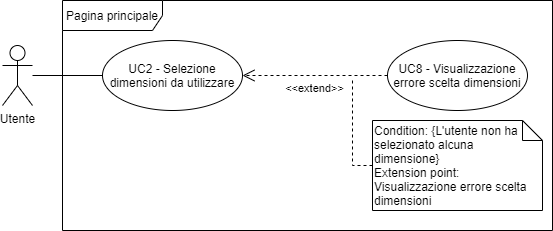
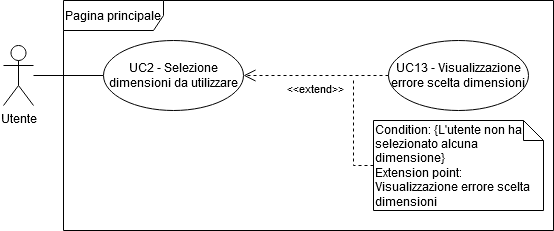
adeguamento numeri uc e grafici

diff --git a/DocEsterna/AnalisiDeiRequisiti/Section/RegistroModifiche.tex b/DocEsterna/AnalisiDeiRequisiti/Section/RegistroModifiche.tex
@@ -27,17 +27,17 @@
 0.1.7 & 26-12-2020 & \SP{} & Analista & Aggiunti requisiti\\
 0.1.6 & 26-12-2020 & \BM{} & Analista & Aggiunti requisiti\\
 0.1.5 & 25-12-2020 & \SG{} & Analista & Stesura dei requisiti \\
-0.1.4 & 24-12-2020 & \SP{} & Analista & Stesura UC8, UC9, UC10\\
-0.1.3 & 24-12-2020 & \SG{} & Analista & Stesura UC4 e sottocasi\\
-0.1.2 & 23-12-2020 & \SP{} & Analista & Stesura UC5 e UC6\\
+0.1.4 & 24-12-2020 & \SP{} & Analista & Stesura UC10, UC11, UC16\\
+0.1.3 & 24-12-2020 & \SG{} & Analista & Stesura UC6, UC7, UC8, UC9, UC15\\
+0.1.2 & 23-12-2020 & \SP{} & Analista & Stesura UC5 e sottocasi\\
 
-0.1.1 & 23-12-2020 & \BM{} & Analista & Stesura UC3 e sottocasi\\
+0.1.1 & 23-12-2020 & \BM{} & Analista & Stesura UC3, UC4, UC14\\
 
 0.1.0 & 22-12-2020 & \PA{} & Verificatore & Revisione complessiva del documento \\
 
-0.0.7 & 22-12-2020 & \SG{} & Analista & Stesura UC2\\
-0.0.6 & 21-12-2020 & \BM{} & Analista & Modifica UC1,\newline Stesura sottocasi\\
-0.0.5 & 18-12-2020 & \SP{} & Analista & Stesura UC1 e UC7\\
+0.0.7 & 22-12-2020 & \SG{} & Analista & Stesura UC2, UC13\\
+0.0.6 & 21-12-2020 & \BM{} & Analista & Modifica UC1,\newline Stesura sottocasi UC1.1, UC1.2\\
+0.0.5 & 18-12-2020 & \SP{} & Analista & Stesura UC1, UC12\\
 0.0.4 & 17-12-2020 & \SP{} & Analista & Stesura sezioni §3.1 e §3.2\\	
 0.0.3 & 16-12-2020 & \SP{} & Analista & Stesura sezione §2\\
 0.0.2 & 15-12-2020 & \SP{} & Analista & Stesura sezione §1\\

diff --git a/DocEsterna/AnalisiDeiRequisiti/Section/Subsection/UC2.tex b/DocEsterna/AnalisiDeiRequisiti/Section/Subsection/UC2.tex
@@ -7,20 +7,19 @@
 \begin{itemize}
 	\item \textbf{Attore primario}: Utente.
 	\item \textbf{Precondizioni}: L'utente ha caricato i dati nel sistema [UC1].
-	\item \textbf{Postcondizioni}: Le dimensioni scelte vengono memorizzate nel sistema.
+	\item \textbf{Postcondizioni}: Le dimensioni scelte vengono memorizzate nel sistema e i dati sono pronti per essere visualizzati.
 	\item \textbf{Scenario principale}:
 		\begin{enumerate}
 			\item All'utente viene presentata una schermata con tutte le dimensioni presenti nel dataset caricato;
 			\item Per ogni dimensione è presente una cella da selezionare nel caso la si voglia utilizzare;
 			\item L'utente seleziona le dimensioni che desidera analizzare;
-			\item L'utente preme sulla funzionalità "Conferma selezione".
 		\end{enumerate}
 	\item \textbf{Estensioni:}
 		\begin{enumerate}[(a)]
 			\item Nel caso in cui l'utente non abbia selezionato nessuna dimensione:
 			\begin{enumerate}[1.]
 				\item Le dimensioni non vengono memorizzate nel sistema;
-				\item Viene visualizzato un messaggio d'errore esplicativo [UCX].
+				\item Viene visualizzato un messaggio d'errore esplicativo [UC13].
 			\end{enumerate}
 		\end{enumerate}
 \end{itemize}

diff --git a/DocEsterna/AnalisiDeiRequisiti/Section/Subsection/UC11.tex b/DocEsterna/AnalisiDeiRequisiti/Section/Subsection/UC11.tex
@@ -1,7 +1,12 @@
 \subsubsection{UC11 - Ripristina sessione}
+\begin{figure}[h]
+\includegraphics[width=\linewidth]{section/Images/UC1.png}
+\centering
+\caption{UC11 - Ripristina sessione}
+\end{figure}
 \begin{itemize}
 	\item \textbf{Attore primario}: Utente.
-	\item \textbf{Precondizioni}: L'utente è in possesso di un file \glo{JSON} ottenuto dal salvataggio della sessione [UC7].
+	\item \textbf{Precondizioni}: L'utente è in possesso di un file \glo{JSON} ottenuto dal salvataggio della sessione [UC10].
 	\item \textbf{Postcondizioni}: Viene visualizzato un messaggio che avvisa l'utente del corretto ripristino della sessione. Viene ripristinata la sessione salvata nel file.
 	\item \textbf{Scenario principale}:
 		\begin{enumerate}
@@ -14,7 +19,7 @@
 		\item Nel caso in cui il file abbia un formato sbagliato o contiene dati non validi:
 		\begin{enumerate}[1.]
 			\item La sessione non viene ripristinata;
-			\item Viene visualizzato un errore esplicativo [UCX].
+			\item Viene visualizzato un errore esplicativo [UC16].
 		\end{enumerate}
 	\end{enumerate}
 \end{itemize}

diff --git a/DocEsterna/AnalisiDeiRequisiti/Section/Subsection/UC5.tex b/DocEsterna/AnalisiDeiRequisiti/Section/Subsection/UC5.tex
@@ -1,4 +1,9 @@
 \subsubsection{UC5 - Scelta della \glo{visualizzazione}}
+\begin{figure}[h]
+\includegraphics[width=\linewidth]{section/Images/UC5.png}
+\centering
+\caption{UC5 - Scelta della visualizzazione}
+\end{figure}
 \begin{itemize}
 	\item \textbf{Attore primario}: Utente.
 	\item \textbf{Precondizioni}: L'utente ha caricato dei dati nel sistema [UC1] e ha selezionato le dimensioni da utilizzare [UC2].
@@ -18,7 +23,7 @@
 		\item Nel caso in cui non è stata scelta alcuna dimensione:
 		\begin{enumerate}[1.]
 			\item Il grafico non viene visualizzato;
-			\item Viene visualizzato un errore esplicativo [UCX].
+			\item Viene visualizzato un errore esplicativo [UC14].
 		\end{enumerate}
 	\end{enumerate}
 \end{itemize}

diff --git a/DocEsterna/AnalisiDeiRequisiti/Section/Subsection/UC3.tex b/DocEsterna/AnalisiDeiRequisiti/Section/Subsection/UC3.tex
@@ -2,6 +2,6 @@
 \begin{itemize}
 	\item \textbf{Attore primario}: Utente.
 	\item \textbf{Precondizioni}: L'utente ha selezionato le dimensioni da utilizzare [UC2].
-	\item \textbf{Postcondizioni}: La scelta viene memorizzata nel sistema e viene resta disponibile una finestra per l'impostazione dei parametri per l'algoritmo di riduzione dimensionale selezionato[UC4].
+	\item \textbf{Postcondizioni}: La scelta viene memorizzata nel sistema e viene resa disponibile una sezione per la personalizzazione dei parametri dell'algoritmo di riduzione dimensionale selezionato[UC4].
 	\item \textbf{Scenario principale}: L'utente seleziona un algoritmo di riduzione dimensionale tra quelli resi disponibili dal sistema.
 \end{itemize}

diff --git a/DocEsterna/AnalisiDeiRequisiti/Section/Subsection/UC16.tex b/DocEsterna/AnalisiDeiRequisiti/Section/Subsection/UC16.tex
@@ -1,12 +1,10 @@
-\subsubsection{UCX - Visualizzazione errore ripristino sessione}
+\subsubsection{UC16 - Visualizzazione errore ripristino sessione}
 \begin{itemize}
 	\item \textbf{Attore primario}: Utente.
 	\item \textbf{Precondizioni}: L'utente fornisce un file errato o contenente dei dati non validi o non corretti.
 	\item \textbf{Postcondizioni}: L'utente visualizza un messaggio di errore e l'operazione fallisce.
 	\item \textbf{Scenario principale}:
 		\begin{enumerate}
-		\item L'utente sceglie di ripristinare una sessione di lavoro;
-		\item L'utente carica un file non conforme;
 			\item L'utente visualizza un messaggio di errore esplicativo;
 			\item L'utente clicca "OK" per continuare.
 		\end{enumerate}

diff --git a/DocEsterna/AnalisiDeiRequisiti/Section/CasiUso.tex b/DocEsterna/AnalisiDeiRequisiti/Section/CasiUso.tex
@@ -24,7 +24,7 @@ Si riferisce all'utente generico che può accedere alla piattaforma e utilizzare
 \input{Section/Subsection/UC2.tex}
 
 \input{Section/Subsection/UC3.tex}
-
+\input{Section/Subsection/UC4.tex}
 \input{Section/Subsection/UC5.tex}
 \input{Section/Subsection/UC5.1.tex}
 \input{Section/Subsection/UC5.2.tex}
@@ -39,4 +39,11 @@ Si riferisce all'utente generico che può accedere alla piattaforma e utilizzare
 \input{Section/Subsection/UC10.tex}
 
 \input{Section/Subsection/UC11.tex}
+%Errori
+\input{Section/Subsection/UC12.tex}
+\input{Section/Subsection/UC13.tex}
+\input{Section/Subsection/UC14.tex}
+\input{Section/Subsection/UC15.tex}
+\input{Section/Subsection/UC16.tex}
+
 

diff --git a/DocEsterna/AnalisiDeiRequisiti/Section/Subsection/UC13.tex b/DocEsterna/AnalisiDeiRequisiti/Section/Subsection/UC13.tex
@@ -1,11 +1,10 @@
-\subsubsection{UC8 - Visualizzazione errore scelta dimensioni}
+\subsubsection{UC13 - Visualizzazione errore scelta dimensioni}
 \begin{itemize}
 	\item \textbf{Attore primario}: Utente.
 	\item \textbf{Precondizioni}: L'utente non ha selezionato alcuna dimensione.
 	\item \textbf{Postcondizioni}: L'utente visualizza un messaggio di errore esplicativo.
 	\item \textbf{Scenario principale}:
 		\begin{enumerate}
-			\item L'utente preme sulla funzionalità "Conferma selezione";
 			\item L'utente visualizza un messaggio di errore esplicativo;
 			\item L'utente clicca "OK" per continuare.
 		\end{enumerate}

diff --git a/DocEsterna/AnalisiDeiRequisiti/Section/Subsection/UC15.tex b/DocEsterna/AnalisiDeiRequisiti/Section/Subsection/UC15.tex
@@ -1,0 +1,11 @@
+\subsubsection{UC15 - Visualizzazione errore personalizzazione Scatter Plot Matrix}
+\begin{itemize}
+	\item \textbf{Attore primario}: Utente.
+	\item \textbf{Precondizioni}: L'utente non ha compilato il numero minimo di campi personalizzabili per la costruzione del grafico Scatter Plot Matrix.
+	\item \textbf{Postcondizioni}: L'utente visualizza un messaggio di errore esplicativo.
+	\item \textbf{Scenario principale}:
+		\begin{enumerate}
+			\item L'utente visualizza un messaggio di errore esplicativo;
+			\item L'utente clicca "OK" per continuare.
+		\end{enumerate}
+\end{itemize}

diff --git a/DocEsterna/AnalisiDeiRequisiti/Section/Subsection/UC12.tex b/DocEsterna/AnalisiDeiRequisiti/Section/Subsection/UC12.tex
@@ -1,5 +1,6 @@
-\subsubsection{UC7 - Visualizzazione errore inserimento dati}
+\subsubsection{UC12 - Visualizzazione errore inserimento dati}
 \begin{itemize}
+	\item \textbf{Descrizione}: L'utente deve visualizzare un errore se il caricamento del dataset nel sistema fallisce.
 	\item \textbf{Attore primario}: Utente.
 	\item \textbf{Precondizioni}: L'utente fornisce un file in un formato errato o contenente dei dati non validi o non corretti.
 	\item \textbf{Postcondizioni}: L'utente visualizza un messaggio di errore e l'operazione fallisce.

diff --git a/DocEsterna/AnalisiDeiRequisiti/Section/Subsection/UC4.tex b/DocEsterna/AnalisiDeiRequisiti/Section/Subsection/UC4.tex
@@ -1,0 +1,7 @@
+\subsubsection{UC4 - Impostazione parametri dell'algoritmo di riduzione dimensionale}
+\begin{itemize}
+	\item \textbf{Attore primario}: Utente.
+	\item \textbf{Precondizioni}: L'utente ha scelto l'algoritmo di riduzione dimensionale [UC3].
+	\item \textbf{Postcondizioni}: I dati hanno subito una riduzione dimensionale e sono pronti per essere visualizzati.
+	\item \textbf{Scenario principale}: L'utente personalizza i parametri secondo le sue esigenze.
+\end{itemize}

diff --git a/DocEsterna/AnalisiDeiRequisiti/Section/Subsection/UC6.tex b/DocEsterna/AnalisiDeiRequisiti/Section/Subsection/UC6.tex
@@ -23,7 +23,7 @@
 		\item Nel caso in cui l'utente non abbia associato nessuna dimensione in un numero minimo di campi tra quelli disposizione:
 		\begin{enumerate}
 			\item Nessun dato per la modifica della visualizzazione viene inviato al sistema;
-			\item Viene visualizzato un messaggio d'errore esplicativo [UCxxxx]
+			\item Viene visualizzato un messaggio d'errore esplicativo [UC15]
 		\end{enumerate}
 	\end{enumerate}
 \end{itemize}
